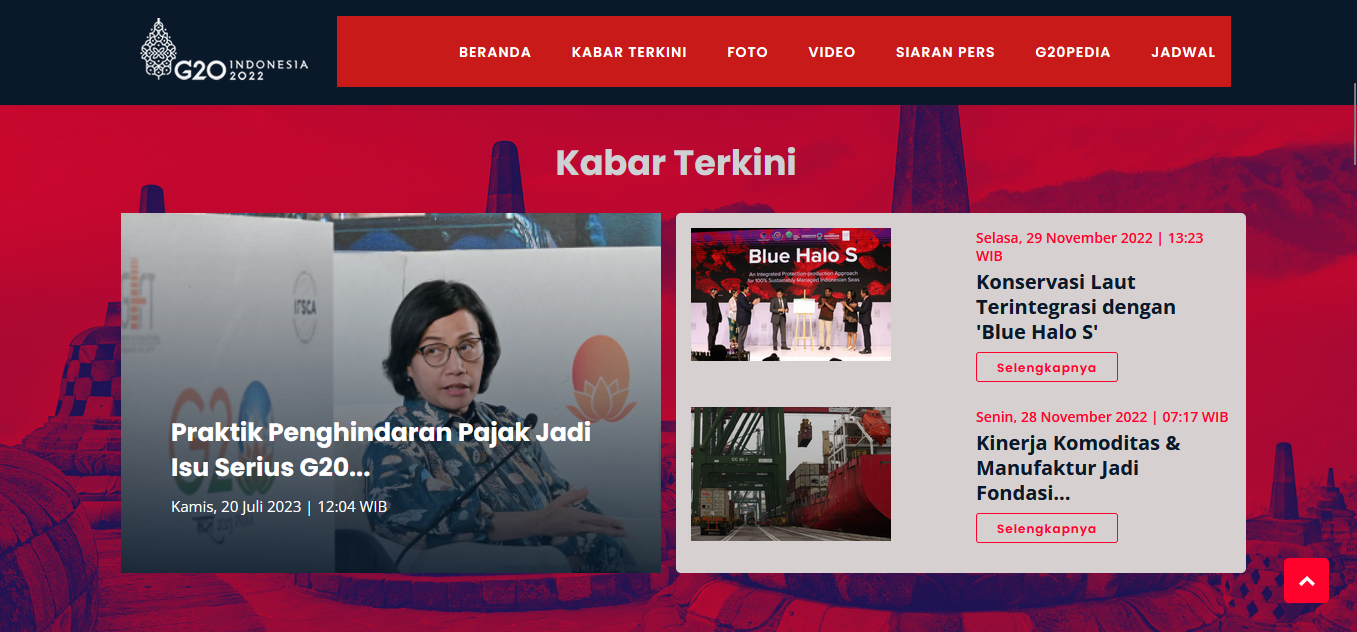
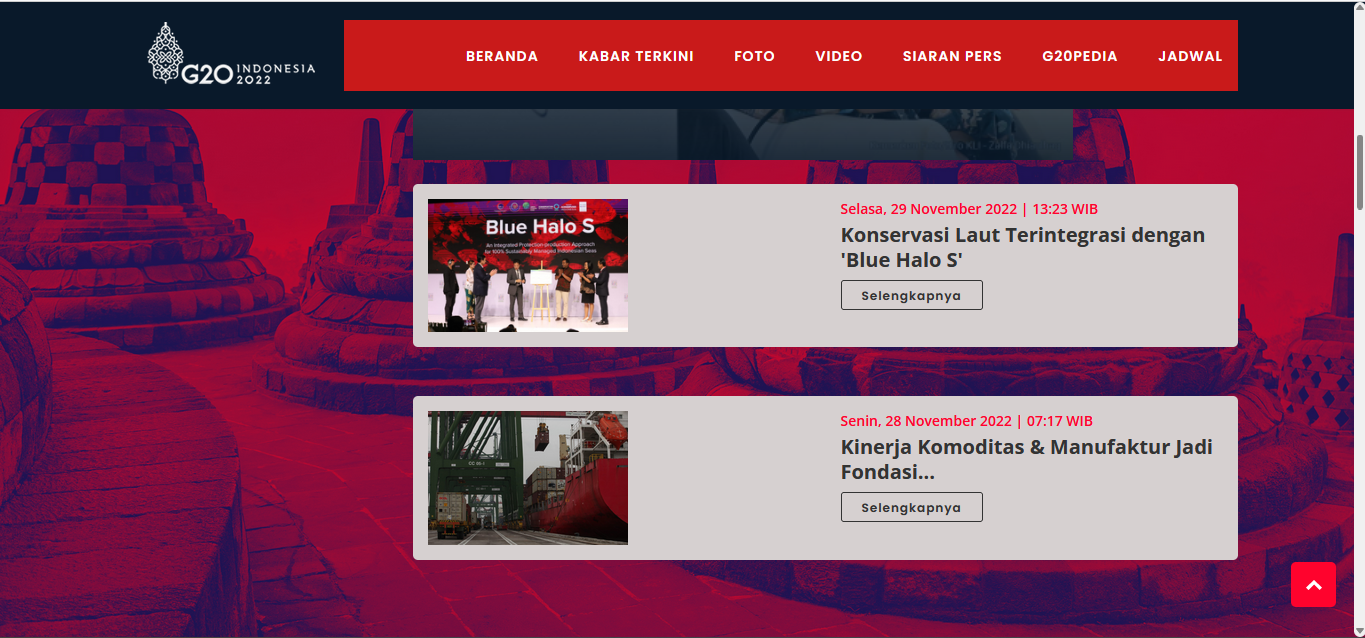
update

diff --git a/home.html b/home.html
@@ -331,53 +331,114 @@
     <!-- CONTENT START -->
     <section>
       
-        <!-- LATEST NEWS START -->        
-        <div class="ws-features bg-wrapper mt-2">
-            <div class="container">
-                <div class="section-title">
-                    <h2 style="color:white"><a href="https://indonesia.go.id/g20/kategori/kabar-terkini-g20">Kabar Terkini</a></h2>
-                </div>
-                <div class="row hover-effects image-hover">
-                    <div class="col-lg-6">
-                        <figure class="blog-news-feature">
-                                                        <img src="https://indonesia.go.id/assets/upload/headline/WhatsApp_Image_2023-07-27_at_10_09_09_thumb.jpeg" class="img-hover img-responsive" alt="">                            
-                            <div class="bnf-caption">
-                                <h3><a href="https://indonesia.go.id/g20/kategori/g20/7368/praktik-penghindaran-pajak-jadi-isu-serius-g20-india?lang=1">Praktik Penghindaran Pajak Jadi Isu Serius G20...</a></h3>                                
-                                <p>Kamis, 20 Juli 2023 | 12:04 WIB</p>                                
-                            </div>
-                        </figure>
-                    </div>
-                    <div class="col-lg-6 spacing-md" style="background-color:#d6d0d0;border-radius: 5px;padding:1em;">
-                        <div class="top-news-block">
-                            <div class="row">
-                                <div class="col-sm-6">
-                                    <figure class="blog-thumb">
-                                                                                <a href="https://indonesia.go.id/g20/kategori/nasional/6700/konservasi-laut-terintegrasi-dengan-blue-halo-s?lang=1"><img src="https://indonesia.go.id/assets/upload/headline/WhatsApp_Image_2022-11-25_at_08_08_59_thumb.jpeg" class="img-hover" alt=""></a>
-                                    </figure>
-                                </div>
-                                <div class="col-sm-6">
-                                    <div class="blog-t-caption">
-                                        <h6>Selasa, 29 November 2022 | 13:23 WIB</h6>
-                                        <h5><a href="https://indonesia.go.id/g20/kategori/nasional/6700/konservasi-laut-terintegrasi-dengan-blue-halo-s?lang=1">Konservasi Laut Terintegrasi dengan 'Blue Halo S'</a></h5>                                        
-                                        <a class="btn btn-default btn-outline" href="https://indonesia.go.id/g20/kategori/nasional/6700/konservasi-laut-terintegrasi-dengan-blue-halo-s?lang=1"
-                                            role="button">Selengkapnya</a>
-                                    </div>
-                                </div>
+        <!DOCTYPE html>
+        <html lang="en">
+        <head>
+            <meta charset="UTF-8">
+            <meta name="viewport" content="width=device-width, initial-scale=1.0">
+            <title>Berita Terkini</title>
+            <style>
+                .small-container {
+                    max-width: 80%; 
+                    margin-top: 50% auto; /* Untuk meratakan di tengah */
+                    padding: 5px 5px; 
+                }
+                .ws-features {
+                    background-color: #333;
+                    color: white;
+                }
+                .section-title a {
+                    color: white;
+                    text-decoration: none;
+                }
+                .blog-news-feature img {
+                    width: 100%;
+                    height: auto;
+                }
+                .bnf-caption h3 a {
+                    color: #eee8e8;
+                    text-decoration: none;
+                }
+                .bnf-caption p {
+                    font-size: 0.9em; /* Perkecil ukuran font */
+                }
+                .blog-thumb img {
+                    width: 100%;
+                    height: auto;
+                }
+                .blog-t-caption h5 a {
+                    color: #333;
+                    text-decoration: none;
+                }
+                .btn-outline {
+                    border: 1px solid #333;
+                    color: #333;
+                    text-decoration: none;
+                    padding: 5px 5px;
+                    display: inline-block;
+                }
+            </style>
+        </head>
+        <body>
+            <!-- LATEST NEWS START -->
+            <div class="ws-features bg-wrapper mt-2">
+                <div class="container">
+                    <div class="row">
+                        <!-- Title Section -->
+                        <div class="col-lg-3">
+                            <div class="section-title">
+                                <h2><a href="https://indonesia.go.id/g20/kategori/kabar-terkini-g20">Kabar Terkini</a></h2>
                             </div>
                         </div>
-                        <div class="bottom-news-block">
-                            <div class="row">
-                                <div class="col-sm-6">
-                                    <figure class="blog-thumb">
-                                                                                <a href="https://indonesia.go.id/g20/kategori/nasional/6696/kinerja-komoditas-manufaktur-jadi-fondasi-perekonomian?lang=1"><img src="https://indonesia.go.id/assets/upload/headline/WhatsApp_Image_2022-11-22_at_13_32_18_thumb.jpeg" class="img-hover" alt=""></a>
+                        <!-- News Content Section -->
+                        <div class="col-lg-9">
+                            <div class="row hover-effects image-hover">
+                                <!-- Main News -->
+                                <div class="col-lg-12 mb-4">
+                                    <figure class="blog-news-feature small-container"> <!-- Kelas "small-container" ditambahkan -->
+                                        <img src="https://indonesia.go.id/assets/upload/headline/WhatsApp_Image_2023-07-27_at_10_09_09_thumb.jpeg" class="img-hover img-responsive" alt="">
+                                        <div class="bnf-caption">
+                                            <h3><a href="https://indonesia.go.id/g20/kategori/g20/7368/praktik-penghindaran-pajak-jadi-isu-serius-g20-india?lang=1">Praktik Penghindaran Pajak Jadi Isu Serius G20...</a></h3>
+                                            <p>Kamis, 20 Juli 2023 | 12:04 WIB</p>
+                                        </div>
                                     </figure>
                                 </div>
-                                <div class="col-sm-6">
-                                    <div class="blog-t-caption">
-                                        <h6>Senin, 28 November 2022 | 07:17 WIB</h6>
-                                        <h5><a href="https://indonesia.go.id/g20/kategori/nasional/6696/kinerja-komoditas-manufaktur-jadi-fondasi-perekonomian?lang=1">Kinerja Komoditas & Manufaktur Jadi Fondasi...</a></h5>                                        
-                                        <a class="btn btn-default btn-outline" href="https://indonesia.go.id/g20/kategori/nasional/6696/kinerja-komoditas-manufaktur-jadi-fondasi-perekonomian?lang=1"
-                                            role="button">Selengkapnya</a>
+                                <!-- Top News Block -->
+                                <div class="col-lg-12">
+                                    <div class="top-news-block mb-4" style="background-color:#d6d0d0; border-radius: 5px; padding:1em;">
+                                        <div class="row">
+                                            <div class="col-sm-6">
+                                                <figure class="blog-thumb">
+                                                    <a href="https://indonesia.go.id/g20/kategori/nasional/6700/konservasi-laut-terintegrasi-dengan-blue-halo-s?lang=1"><img src="https://indonesia.go.id/assets/upload/headline/WhatsApp_Image_2022-11-25_at_08_08_59_thumb.jpeg" class="img-hover" alt=""></a>
+                                                </figure>
+                                            </div>
+                                            <div class="col-sm-6">
+                                                <div class="blog-t-caption">
+                                                    <h6>Selasa, 29 November 2022 | 13:23 WIB</h6>
+                                                    <h5><a href="https://indonesia.go.id/g20/kategori/nasional/6700/konservasi-laut-terintegrasi-dengan-blue-halo-s?lang=1">Konservasi Laut Terintegrasi dengan 'Blue Halo S'</a></h5>
+                                                    <a class="btn btn-default btn-outline" href="https://indonesia.go.id/g20/kategori/nasional/6700/konservasi-laut-terintegrasi-dengan-blue-halo-s?lang=1" role="button">Selengkapnya</a>
+                                                </div>
+                                            </div>
+                                        </div>
+                                    </div>
+                                </div>
+                                <!-- Bottom News Block -->
+                                <div class="col-lg-12">
+                                    <div class="bottom-news-block" style="background-color:#d6d0d0; border-radius: 5px; padding:1em;">
+                                        <div class="row">
+                                            <div class="col-sm-6">
+                                                <figure class="blog-thumb">
+                                                    <a href="https://indonesia.go.id/g20/kategori/nasional/6696/kinerja-komoditas-manufaktur-jadi-fondasi-perekonomian?lang=1"><img src="https://indonesia.go.id/assets/upload/headline/WhatsApp_Image_2022-11-22_at_13_32_18_thumb.jpeg" class="img-hover" alt=""></a>
+                                                </figure>
+                                            </div>
+                                            <div class="col-sm-6">
+                                                <div class="blog-t-caption">
+                                                    <h6>Senin, 28 November 2022 | 07:17 WIB</h6>
+                                                    <h5><a href="https://indonesia.go.id/g20/kategori/nasional/6696/kinerja-komoditas-manufaktur-jadi-fondasi-perekonomian?lang=1">Kinerja Komoditas & Manufaktur Jadi Fondasi...</a></h5>
+                                                    <a class="btn btn-default btn-outline" href="https://indonesia.go.id/g20/kategori/nasional/6696/kinerja-komoditas-manufaktur-jadi-fondasi-perekonomian?lang=1" role="button">Selengkapnya</a>
+                                                </div>
+                                            </div>
+                                        </div>
                                     </div>
                                 </div>
                             </div>
@@ -385,8 +446,10 @@
                     </div>
                 </div>
             </div>
-        </div>
-        <!-- LATEST NEWS END -->        
+            <!-- LATEST NEWS END -->
+        </body>
+        </html>
+              
 
         <!-- G20PEDIA START -->
         <div class="bg-wrapper">

diff --git a/README.md b/README.md
@@ -5,8 +5,16 @@ Meskipun situs web ini memiliki desain yang menarik dan fungsional, terdapat kek
 
 # Solution
 Menambahkan background navbar menu. Solusi saya adalah menambahkan latar belakang pada navbar menu untuk meningkatkan daya tarik visual dan membantu membedakan antara konten utama dan menu navigasi. Dengan menambahkan latar belakang, dapat menciptakan tampilan yang lebih menarik dan profesional, sambil tetap mempertahankan fungsi dan navigabilitas yang baik. Latar belakang ini dirancang dengan cermat agar sesuai dengan estetika umum situs web kami, menciptakan konsistensi visual yang kuat di seluruh platform. Dengan demikian, pengguna akan lebih mudah mengidentifikasi dan mengakses opsi menu yang tersedia, meningkatkan pengalaman pengguna secara keseluruhan.
+![image](media/ss1.png)
+
 ![image](media/ss2.png)
 
-![image](media/ss3.png)
+![image](media/ss3.png) 
 
-![image](media/ss.png) 
+![image](media/ss4.png)
+
+![image](media/ss5.png)
+
+![image](media/ss6.png) 
+
+![image](media/ss7.png) 
